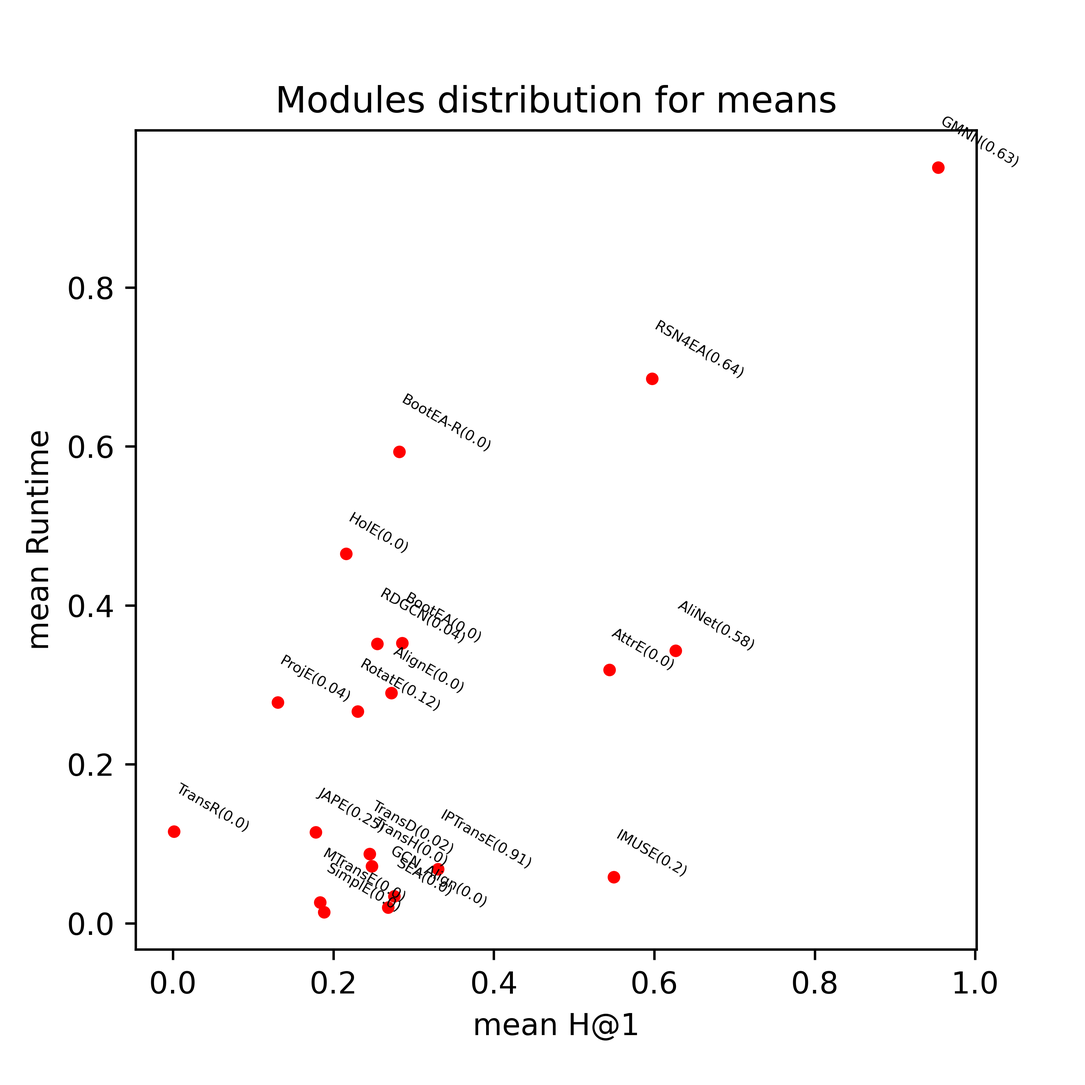
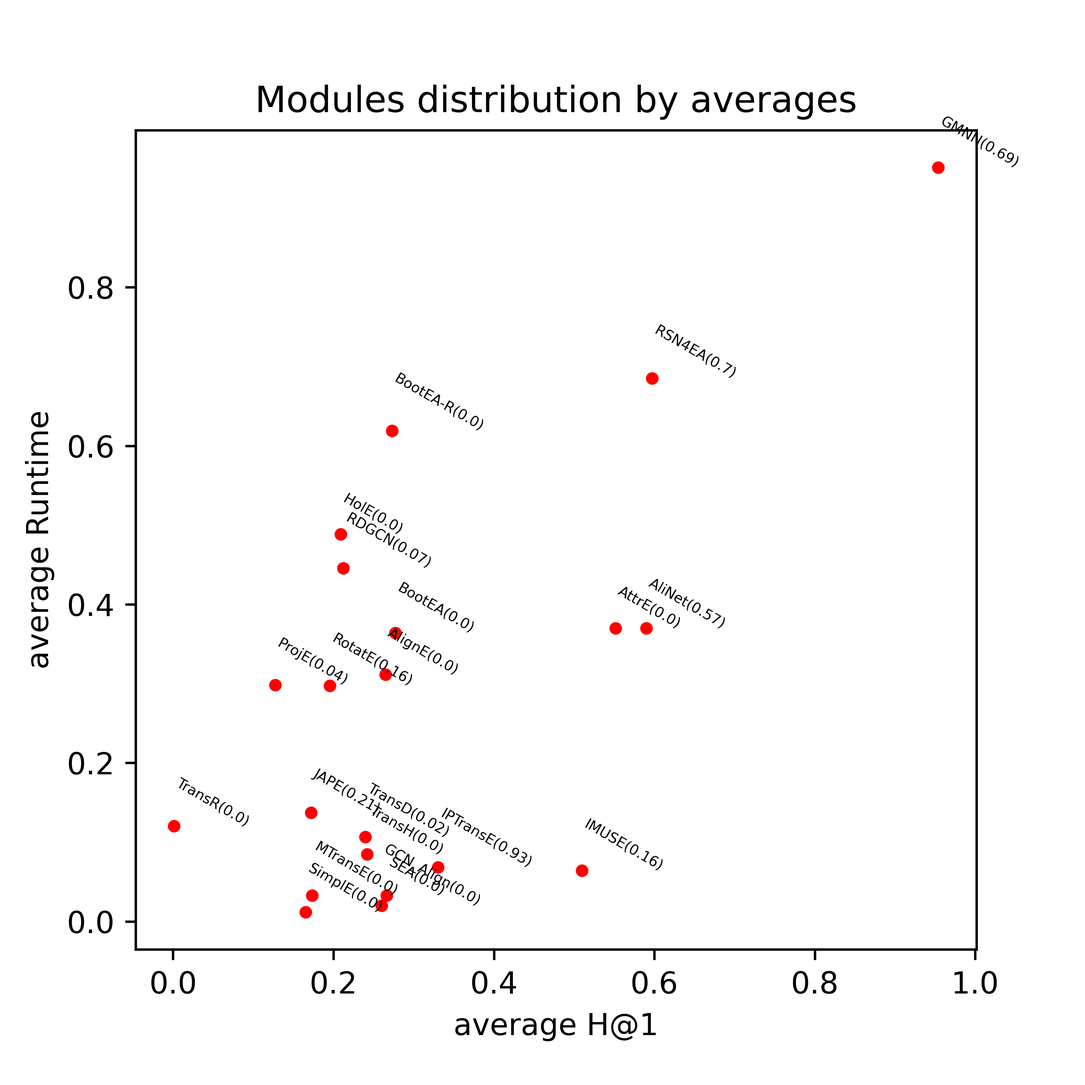
Update Datasets

diff --git a/FiguresAndTables/meansH1Methods.md b/FiguresAndTables/meansH1Methods.md
@@ -1,27 +1,27 @@
-|    | Approach       |   AirlinesCustomerSatisfaction |   AmazonRatings |   BigBasketProducts |   BrazilianE-commerce |   E-CommerceData |   meanH@1 |
-|---:|:---------------|-------------------------------:|----------------:|--------------------:|----------------------:|-----------------:|----------:|
-|  0 | AlignE(0.0)    |                     15.1167    |         35.397  |             29.568  |              24.1625  |          31.8589 |  27.2206  |
-|  1 | AliNet(0.58)   |                     68.34      |         59.0583 |             55.52   |              70.28    |          60.0125 |  62.6422  |
-|  2 | AttrE(0.0)     |                     41.495     |         68.017  |             60.927  |              59.01    |          42.6556 |  54.4209  |
-|  3 | BootEA(0.0)    |                     16.2817    |         37.884  |             30.609  |              26.3525  |          31.8378 |  28.593   |
-|  4 | BootEA-R(0.0)  |                     16.115     |         37.049  |             29.894  |              25.7637  |          32.1722 |  28.1988  |
-|  5 | BootEA-T(1.0)  |                    nan         |        nan      |            nan      |             nan       |         nan      | nan       |
-|  6 | Conve(1.0)     |                    nan         |        nan      |            nan      |             nan       |         nan      | nan       |
-|  7 | GCN_Align(0.0) |                     12.6167    |         37.839  |             28.626  |              25.1512  |          29.7511 |  26.7968  |
-|  8 | GMNN(0.63)     |                    nan         |        nan      |             86.41   |             100       |          99.7783 |  95.3961  |
-|  9 | HolE(0.0)      |                      9.565     |         31.424  |             21.849  |              19.115   |          25.9356 |  21.5777  |
-| 10 | IMUSE(0.2)     |                     26.5817    |         56.8243 |             44.3389 |              89.925   |          57.0533 |  54.9446  |
-| 11 | IPTransE(0.91) |                    nan         |        nan      |            nan      |             nan       |          33.035  |  33.035   |
-| 12 | JAPE(0.25)     |                      0.473333  |         26.9567 |             23.4478 |              22.1033  |          16.0225 |  17.8007  |
-| 13 | KDCoE(1.0)     |                    nan         |        nan      |            nan      |             nan       |         nan      | nan       |
-| 14 | MTransE(0.0)   |                      1.955     |         31.3    |             24.849  |              19.7     |          13.96   |  18.3528  |
-| 15 | MultiKE(1.0)   |                    nan         |        nan      |            nan      |             nan       |         nan      | nan       |
-| 16 | ProjE(0.04)    |                      5.36667   |         15.732  |             12.722  |               6.85125 |          24.5429 |  13.043   |
-| 17 | RDGCN(0.04)    |                      0.005     |          0.009  |             72.8244 |              34.8486  |          19.6678 |  25.471   |
-| 18 | RotatE(0.12)   |                      0.0166667 |         30.48   |             28.801  |              24.3987  |          31.4356 |  23.0264  |
-| 19 | RSN4EA(0.64)   |                    nan         |         56.1    |             58.0875 |              63.4267  |          61.2425 |  59.7142  |
-| 20 | SEA(0.0)       |                     16.2483    |         35.707  |             29.059  |              24.575   |          32.2056 |  27.559   |
-| 21 | SimplE(0.0)    |                      0.0916667 |         27.732  |             22.209  |              20.775   |          23.4344 |  18.8484  |
-| 22 | TransD(0.02)   |                     13.1267    |         33.621  |             26.36   |              19.73    |          29.6863 |  24.5048  |
-| 23 | TransH(0.0)    |                     13.3217    |         33.702  |             26.211  |              21.3675  |          29.2789 |  24.7762  |
-| 24 | TransR(0.0)    |                      0.015     |          0.036  |              0.08   |               0.03875 |           0.39   |   0.11195 |
+|    | Approach       |   AirlinesCustomerSatisfaction |   AmazonRatings |   BigBasketProducts |   BrazilianE-commerce |   E-CommerceData |   CustomerComplaintDatabase |    meanH@1 |
+|---:|:---------------|-------------------------------:|----------------:|--------------------:|----------------------:|-----------------:|----------------------------:|-----------:|
+|  0 | AlignE(0.0)    |                     15.1167    |         35.397  |             29.568  |              24.1625  |          31.8589 |                  22.8033    |  26.4844   |
+|  1 | AliNet(0.57)   |                     68.34      |         59.0583 |             55.52   |              70.28    |          60.0125 |                  40.7633    |  58.9957   |
+|  2 | AttrE(0.0)     |                     41.495     |         68.017  |             60.927  |              59.01    |          42.6556 |                  58.8867    |  55.1652   |
+|  3 | BootEA(0.0)    |                     16.2817    |         37.884  |             30.609  |              26.3525  |          31.8378 |                  23.24      |  27.7008   |
+|  4 | BootEA-R(0.0)  |                     16.115     |         37.049  |             29.894  |              25.7637  |          32.1722 |                  22.7267    |  27.2868   |
+|  5 | BootEA-T(1.0)  |                    nan         |        nan      |            nan      |             nan       |         nan      |                 nan         | nan        |
+|  6 | Conve(1.0)     |                    nan         |        nan      |            nan      |             nan       |         nan      |                 nan         | nan        |
+|  7 | GCN_Align(0.0) |                     12.6167    |         37.839  |             28.626  |              25.1512  |          29.7511 |                  21.9283    |  25.9854   |
+|  8 | GMNN(0.69)     |                    nan         |        nan      |             86.41   |             100       |          99.7783 |                 nan         |  95.3961   |
+|  9 | HolE(0.0)      |                      9.565     |         31.424  |             21.849  |              19.115   |          25.9356 |                  17.4533    |  20.8903   |
+| 10 | IMUSE(0.16)    |                     26.5817    |         56.8243 |             44.3389 |              89.925   |          57.0533 |                  31.1383    |  50.9769   |
+| 11 | IPTransE(0.93) |                    nan         |        nan      |            nan      |             nan       |          33.035  |                 nan         |  33.035    |
+| 12 | JAPE(0.21)     |                      0.473333  |         26.9567 |             23.4478 |              22.1033  |          16.0225 |                  14.3017    |  17.2175   |
+| 13 | KDCoE(1.0)     |                    nan         |        nan      |            nan      |             nan       |         nan      |                 nan         | nan        |
+| 14 | MTransE(0.0)   |                      1.955     |         31.3    |             24.849  |              19.7     |          13.96   |                  12.3517    |  17.3526   |
+| 15 | MultiKE(1.0)   |                    nan         |        nan      |            nan      |             nan       |         nan      |                 nan         | nan        |
+| 16 | ProjE(0.04)    |                      5.36667   |         15.732  |             12.722  |               6.85125 |          24.5429 |                  11.12      |  12.7225   |
+| 17 | RDGCN(0.07)    |                      0.005     |          0.009  |             72.8244 |              34.8486  |          19.6678 |                   0.034     |  21.2315   |
+| 18 | RotatE(0.16)   |                      0.0166667 |         30.48   |             28.801  |              24.3987  |          31.4356 |                   2.0275    |  19.5266   |
+| 19 | RSN4EA(0.7)    |                    nan         |         56.1    |             58.0875 |              63.4267  |          61.2425 |                 nan         |  59.7142   |
+| 20 | SEA(0.0)       |                     16.2483    |         35.707  |             29.059  |              24.575   |          32.2056 |                  21.8917    |  26.6144   |
+| 21 | SimplE(0.0)    |                      0.0916667 |         27.732  |             22.209  |              20.775   |          23.4344 |                   5.025     |  16.5445   |
+| 22 | TransD(0.02)   |                     13.1267    |         33.621  |             26.36   |              19.73    |          29.6863 |                  21.16      |  23.9473   |
+| 23 | TransH(0.0)    |                     13.3217    |         33.702  |             26.211  |              21.3675  |          29.2789 |                  21.4       |  24.2135   |
+| 24 | TransR(0.0)    |                      0.015     |          0.036  |              0.08   |               0.03875 |           0.39   |                   0.0466667 |   0.101069 |

diff --git a/FiguresAndTables/meansErrorMethods.md b/FiguresAndTables/meansErrorMethods.md
@@ -1,27 +1,27 @@
-|    | Approach   |   AirlinesCustomerSatisfaction |   AmazonRatings |   BigBasketProducts |   BrazilianE-commerce |   E-CommerceData |   meanError |
-|---:|:-----------|-------------------------------:|----------------:|--------------------:|----------------------:|-----------------:|------------:|
-|  0 | AlignE     |                       0        |             0   |                 0   |                 0     |         0        |        0    |
-|  1 | AliNet     |                       0.833333 |             0.4 |                 0.5 |                 0.625 |         0.555556 |        0.58 |
-|  2 | AttrE      |                       0        |             0   |                 0   |                 0     |         0        |        0    |
-|  3 | BootEA     |                       0        |             0   |                 0   |                 0     |         0        |        0    |
-|  4 | BootEA-R   |                       0        |             0   |                 0   |                 0     |         0        |        0    |
-|  5 | BootEA-T   |                       1        |             1   |                 1   |                 1     |         1        |        1    |
-|  6 | Conve      |                       1        |             1   |                 1   |                 1     |         1        |        1    |
-|  7 | GCN_Align  |                       0        |             0   |                 0   |                 0     |         0        |        0    |
-|  8 | GMNN       |                       1        |             1   |                 0.3 |                 0.5   |         0.333333 |        0.63 |
-|  9 | HolE       |                       0        |             0   |                 0   |                 0     |         0        |        0    |
-| 10 | IMUSE      |                       0        |             0.3 |                 0.1 |                 0.25  |         0.333333 |        0.2  |
-| 11 | IPTransE   |                       1        |             1   |                 1   |                 1     |         0.555556 |        0.91 |
-| 12 | JAPE       |                       0        |             0.4 |                 0.1 |                 0.625 |         0.111111 |        0.25 |
-| 13 | KDCoE      |                       1        |             1   |                 1   |                 1     |         1        |        1    |
-| 14 | MTransE    |                       0        |             0   |                 0   |                 0     |         0        |        0    |
-| 15 | MultiKE    |                       1        |             1   |                 1   |                 1     |         1        |        1    |
-| 16 | ProjE      |                       0        |             0   |                 0   |                 0     |         0.222222 |        0.04 |
-| 17 | RDGCN      |                       0        |             0   |                 0.1 |                 0.125 |         0        |        0.04 |
-| 18 | RotatE     |                       0.5      |             0.1 |                 0   |                 0     |         0        |        0.12 |
-| 19 | RSN4EA     |                       1        |             0.4 |                 0.6 |                 0.625 |         0.555556 |        0.64 |
-| 20 | SEA        |                       0        |             0   |                 0   |                 0     |         0        |        0    |
-| 21 | SimplE     |                       0        |             0   |                 0   |                 0     |         0        |        0    |
-| 22 | TransD     |                       0        |             0   |                 0   |                 0     |         0.111111 |        0.02 |
-| 23 | TransH     |                       0        |             0   |                 0   |                 0     |         0        |        0    |
-| 24 | TransR     |                       0        |             0   |                 0   |                 0     |         0        |        0    |
+|    | Approach   |   AirlinesCustomerSatisfaction |   AmazonRatings |   BigBasketProducts |   BrazilianE-commerce |   E-CommerceData |   CustomerComplaintDatabase |   meanError |
+|---:|:-----------|-------------------------------:|----------------:|--------------------:|----------------------:|-----------------:|----------------------------:|------------:|
+|  0 | AlignE     |                       0        |             0   |                 0   |                 0     |         0        |                    0        |        0    |
+|  1 | AliNet     |                       0.833333 |             0.4 |                 0.5 |                 0.625 |         0.555556 |                    0.5      |        0.57 |
+|  2 | AttrE      |                       0        |             0   |                 0   |                 0     |         0        |                    0        |        0    |
+|  3 | BootEA     |                       0        |             0   |                 0   |                 0     |         0        |                    0        |        0    |
+|  4 | BootEA-R   |                       0        |             0   |                 0   |                 0     |         0        |                    0        |        0    |
+|  5 | BootEA-T   |                       1        |             1   |                 1   |                 1     |         1        |                    1        |        1    |
+|  6 | Conve      |                       1        |             1   |                 1   |                 1     |         1        |                    1        |        1    |
+|  7 | GCN_Align  |                       0        |             0   |                 0   |                 0     |         0        |                    0        |        0    |
+|  8 | GMNN       |                       1        |             1   |                 0.3 |                 0.5   |         0.333333 |                    1        |        0.69 |
+|  9 | HolE       |                       0        |             0   |                 0   |                 0     |         0        |                    0        |        0    |
+| 10 | IMUSE      |                       0        |             0.3 |                 0.1 |                 0.25  |         0.333333 |                    0        |        0.16 |
+| 11 | IPTransE   |                       1        |             1   |                 1   |                 1     |         0.555556 |                    1        |        0.93 |
+| 12 | JAPE       |                       0        |             0.4 |                 0.1 |                 0.625 |         0.111111 |                    0        |        0.21 |
+| 13 | KDCoE      |                       1        |             1   |                 1   |                 1     |         1        |                    1        |        1    |
+| 14 | MTransE    |                       0        |             0   |                 0   |                 0     |         0        |                    0        |        0    |
+| 15 | MultiKE    |                       1        |             1   |                 1   |                 1     |         1        |                    1        |        1    |
+| 16 | ProjE      |                       0        |             0   |                 0   |                 0     |         0.222222 |                    0        |        0.04 |
+| 17 | RDGCN      |                       0        |             0   |                 0.1 |                 0.125 |         0        |                    0.166667 |        0.07 |
+| 18 | RotatE     |                       0.5      |             0.1 |                 0   |                 0     |         0        |                    0.333333 |        0.16 |
+| 19 | RSN4EA     |                       1        |             0.4 |                 0.6 |                 0.625 |         0.555556 |                    1        |        0.7  |
+| 20 | SEA        |                       0        |             0   |                 0   |                 0     |         0        |                    0        |        0    |
+| 21 | SimplE     |                       0        |             0   |                 0   |                 0     |         0        |                    0        |        0    |
+| 22 | TransD     |                       0        |             0   |                 0   |                 0     |         0.111111 |                    0        |        0.02 |
+| 23 | TransH     |                       0        |             0   |                 0   |                 0     |         0        |                    0        |        0    |
+| 24 | TransR     |                       0        |             0   |                 0   |                 0     |         0        |                    0        |        0    |

diff --git a/FiguresAndTables/meansRuntimeMethods.md b/FiguresAndTables/meansRuntimeMethods.md
@@ -1,27 +1,27 @@
-|    | Approach   |   AirlinesCustomerSatisfaction |   AmazonRatings |   BigBasketProducts |   BrazilianE-commerce |   E-CommerceData |    meanTime |
-|---:|:-----------|-------------------------------:|----------------:|--------------------:|----------------------:|-----------------:|------------:|
-|  0 | AlignE     |                     0.383452   |       0.398477  |          0.140399   |            0.217742   |       0.308854   |   0.289785  |
-|  1 | AliNet     |                     0.29239    |       0.413501  |          0.128083   |            0.70534    |       0.176202   |   0.343103  |
-|  2 | AttrE      |                     0.586099   |       0.329858  |          0.175498   |            0.334752   |       0.166925   |   0.318626  |
-|  3 | BootEA     |                     0.434692   |       0.570226  |          0.148005   |            0.312151   |       0.297753   |   0.352566  |
-|  4 | BootEA-R   |                     0.68202    |       0.85052   |          0.319472   |            0.575235   |       0.539029   |   0.593255  |
-|  5 | BootEA-T   |                   nan          |     nan         |        nan          |          nan          |     nan          | nan         |
-|  6 | Conve      |                   nan          |     nan         |        nan          |          nan          |     nan          | nan         |
-|  7 | GCN_Align  |                     0.058169   |       0.0232482 |          0.00354892 |            0.00614488 |       0.00766333 |   0.0197549 |
-|  8 | GMNN       |                   nan          |     nan         |          1          |            1          |       0.853034   |   0.951011  |
-|  9 | HolE       |                     0.476202   |       0.6037    |          0.350937   |            0.388389   |       0.505976   |   0.465041  |
-| 10 | IMUSE      |                     0.168226   |       0.0723632 |          0.017393   |            0.0208482  |       0.0119694  |   0.05816   |
-| 11 | IPTransE   |                   nan          |     nan         |        nan          |          nan          |       0.0682923  |   0.0682923 |
-| 12 | JAPE       |                     0.346894   |       0.0985859 |          0.0333028  |            0.0554822  |       0.0379448  |   0.114442  |
-| 13 | KDCoE      |                   nan          |     nan         |        nan          |          nan          |     nan          | nan         |
-| 14 | MTransE    |                     0.0652884  |       0.0196702 |          0.00771234 |            0.0231861  |       0.0155308  |   0.0262776 |
-| 15 | MultiKE    |                   nan          |     nan         |        nan          |          nan          |     nan          | nan         |
-| 16 | ProjE      |                     0.42183    |       0.284093  |          0.13603    |            0.225391   |       0.322763   |   0.278021  |
-| 17 | RDGCN      |                     0.331012   |       0.109752  |          0.337565   |            0.468765   |       0.510758   |   0.351571  |
-| 18 | RotatE     |                     0.415271   |       0.317508  |          0.146911   |            0.196299   |       0.257131   |   0.266624  |
-| 19 | RSN4EA     |                   nan          |       0.804311  |          0.275658   |            0.778985   |       0.88147    |   0.685106  |
-| 20 | SEA        |                     0.0729613  |       0.031018  |          0.00693881 |            0.0286398  |       0.0295775  |   0.0338271 |
-| 21 | SimplE     |                     0.00655595 |       0.0134017 |          0.0136943  |            0.0152445  |       0.0206047  |   0.0139002 |
-| 22 | TransD     |                     0.143617   |       0.103602  |          0.0398369  |            0.0595628  |       0.0886751  |   0.0870588 |
-| 23 | TransH     |                     0.11547    |       0.0678725 |          0.0253032  |            0.0604899  |       0.0898547  |   0.0717979 |
-| 24 | TransR     |                     0.182317   |       0.122178  |          0.066497   |            0.0796253  |       0.126292   |   0.115382  |
+|    | Approach   |   AirlinesCustomerSatisfaction |   AmazonRatings |   BigBasketProducts |   BrazilianE-commerce |   E-CommerceData |   CustomerComplaintDatabase |    meanTime |
+|---:|:-----------|-------------------------------:|----------------:|--------------------:|----------------------:|-----------------:|----------------------------:|------------:|
+|  0 | AlignE     |                     0.383452   |       0.398477  |          0.140399   |            0.217742   |       0.308854   |                  0.420449   |   0.311562  |
+|  1 | AliNet     |                     0.29239    |       0.413501  |          0.128083   |            0.70534    |       0.176202   |                  0.503721   |   0.369873  |
+|  2 | AttrE      |                     0.586099   |       0.329858  |          0.175498   |            0.334752   |       0.166925   |                  0.625912   |   0.369841  |
+|  3 | BootEA     |                     0.434692   |       0.570226  |          0.148005   |            0.312151   |       0.297753   |                  0.420206   |   0.363839  |
+|  4 | BootEA-R   |                     0.68202    |       0.85052   |          0.319472   |            0.575235   |       0.539029   |                  0.747011   |   0.618881  |
+|  5 | BootEA-T   |                   nan          |     nan         |        nan          |          nan          |     nan          |                nan          | nan         |
+|  6 | Conve      |                   nan          |     nan         |        nan          |          nan          |     nan          |                nan          | nan         |
+|  7 | GCN_Align  |                     0.058169   |       0.0232482 |          0.00354892 |            0.00614488 |       0.00766333 |                  0.0205908  |   0.0198942 |
+|  8 | GMNN       |                   nan          |     nan         |          1          |            1          |       0.853034   |                nan          |   0.951011  |
+|  9 | HolE       |                     0.476202   |       0.6037    |          0.350937   |            0.388389   |       0.505976   |                  0.604757   |   0.488327  |
+| 10 | IMUSE      |                     0.168226   |       0.0723632 |          0.017393   |            0.0208482  |       0.0119694  |                  0.09483    |   0.0642716 |
+| 11 | IPTransE   |                   nan          |     nan         |        nan          |          nan          |       0.0682923  |                nan          |   0.0682923 |
+| 12 | JAPE       |                     0.346894   |       0.0985859 |          0.0333028  |            0.0554822  |       0.0379448  |                  0.250169   |   0.137063  |
+| 13 | KDCoE      |                   nan          |     nan         |        nan          |          nan          |     nan          |                nan          | nan         |
+| 14 | MTransE    |                     0.0652884  |       0.0196702 |          0.00771234 |            0.0231861  |       0.0155308  |                  0.0644053  |   0.0326322 |
+| 15 | MultiKE    |                   nan          |     nan         |        nan          |          nan          |     nan          |                nan          | nan         |
+| 16 | ProjE      |                     0.42183    |       0.284093  |          0.13603    |            0.225391   |       0.322763   |                  0.400854   |   0.298493  |
+| 17 | RDGCN      |                     0.331012   |       0.109752  |          0.337565   |            0.468765   |       0.510758   |                  0.916327   |   0.445697  |
+| 18 | RotatE     |                     0.415271   |       0.317508  |          0.146911   |            0.196299   |       0.257131   |                  0.452141   |   0.297543  |
+| 19 | RSN4EA     |                   nan          |       0.804311  |          0.275658   |            0.778985   |       0.88147    |                nan          |   0.685106  |
+| 20 | SEA        |                     0.0729613  |       0.031018  |          0.00693881 |            0.0286398  |       0.0295775  |                  0.0288212  |   0.0329928 |
+| 21 | SimplE     |                     0.00655595 |       0.0134017 |          0.0136943  |            0.0152445  |       0.0206047  |                  0.00147042 |   0.0118286 |
+| 22 | TransD     |                     0.143617   |       0.103602  |          0.0398369  |            0.0595628  |       0.0886751  |                  0.205873   |   0.106861  |
+| 23 | TransH     |                     0.11547    |       0.0678725 |          0.0253032  |            0.0604899  |       0.0898547  |                  0.151213   |   0.0850337 |
+| 24 | TransR     |                     0.182317   |       0.122178  |          0.066497   |            0.0796253  |       0.126292   |                  0.144497   |   0.120235  |

diff --git a/Materials/materials.md b/Materials/materials.md
@@ -50,10 +50,10 @@
 
 |ent_links| [Related Entities](./Experiments/EntityAlignment/Materials-Materials/Input/ent_links)|Split 1 Test|
 |:-:|:-:|:-:|
-|<https://purl.org/ontologies/MT/SalesArticle> - <https://purl.org/ontologies/MT/SalesArticle>| 19719 (51.95%)|7980 (89.09%)
-|<https://purl.org/ontologies/MT/sales_product> - <https://purl.org/ontologies/MT/sales_product>| 13366 (35.22%)|5308 (10.91%)
-|<https://purl.org/ontologies/MT/material> - <https://purl.org/ontologies/MT/material>| 4861 (12.81%)|1888 (10.91%)
-|<https://purl.org/ontologies/MT/Indication> - <https://purl.org/ontologies/MT/Indication>| 8 (0.02%)| 5 (10.91%)
+|<https://purl.org/ontologies/MT/SalesArticle> - <https://purl.org/ontologies/MT/SalesArticle>| 19719 (51.95%)|7980 (52.57%)
+|<https://purl.org/ontologies/MT/sales_product> - <https://purl.org/ontologies/MT/sales_product>| 13366 (35.22%)|5308 (34.96%)
+|<https://purl.org/ontologies/MT/material> - <https://purl.org/ontologies/MT/material>| 4861 (12.81%)|1888 (12.44%)
+|<https://purl.org/ontologies/MT/Indication> - <https://purl.org/ontologies/MT/Indication>| 8 (0.02%)| 5 (0.03%)
 | Total related entities |37954|15181
 
 |Split|Training (50%) | Test (40%) | Validation (10%) |
